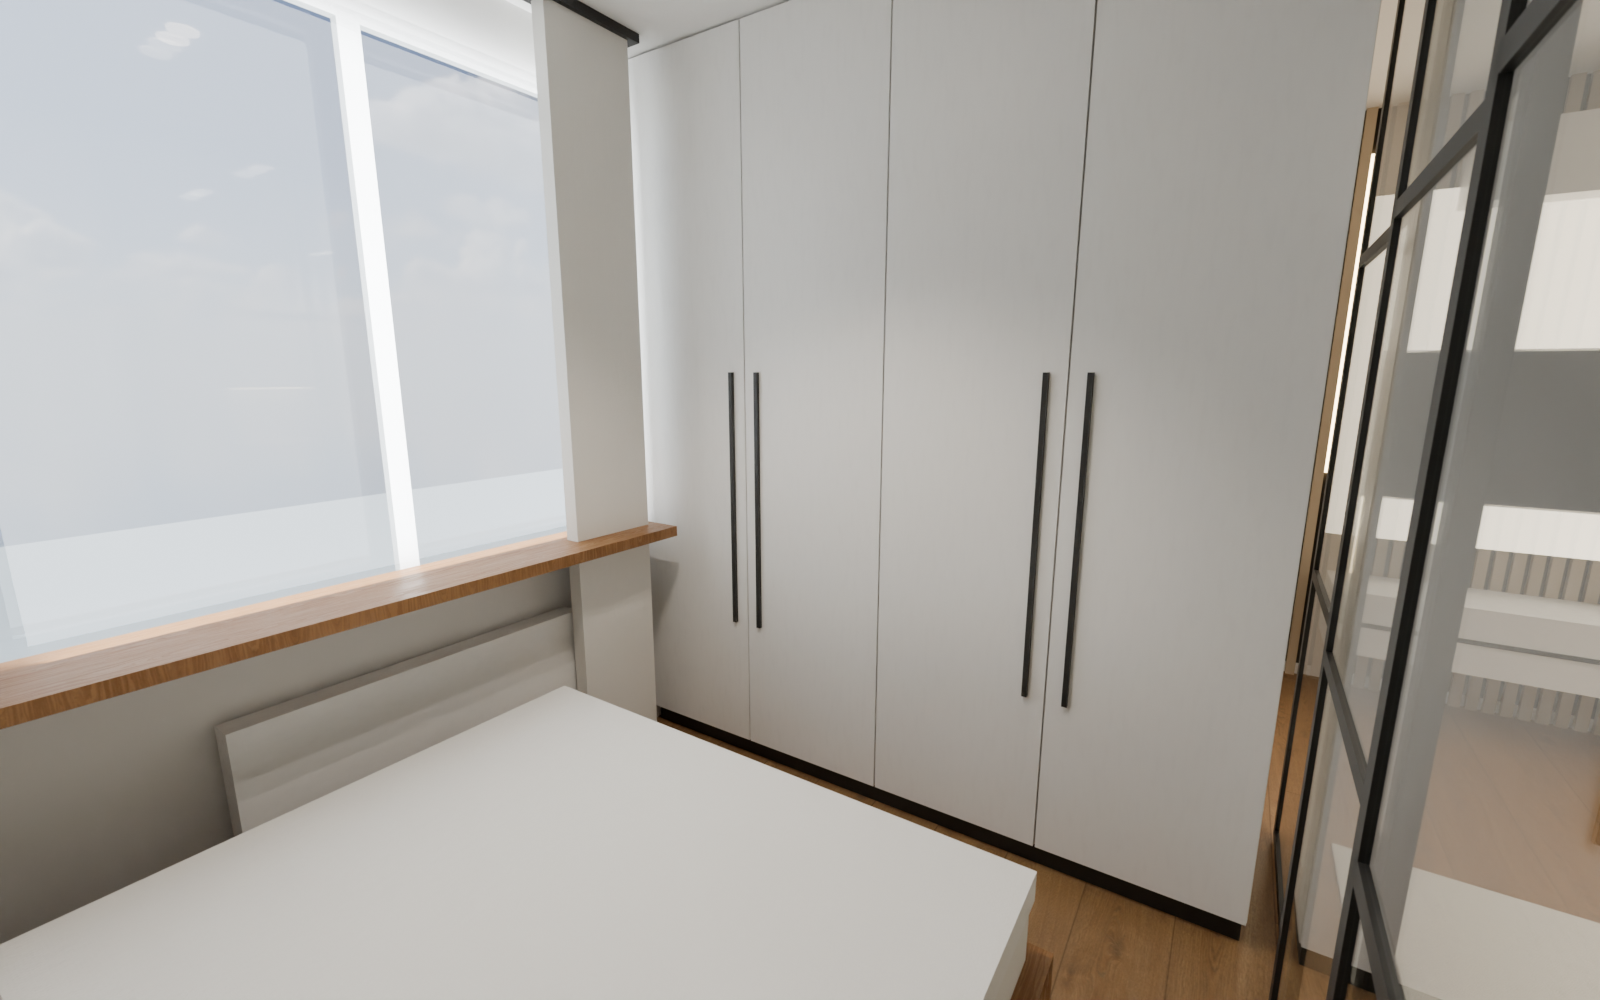
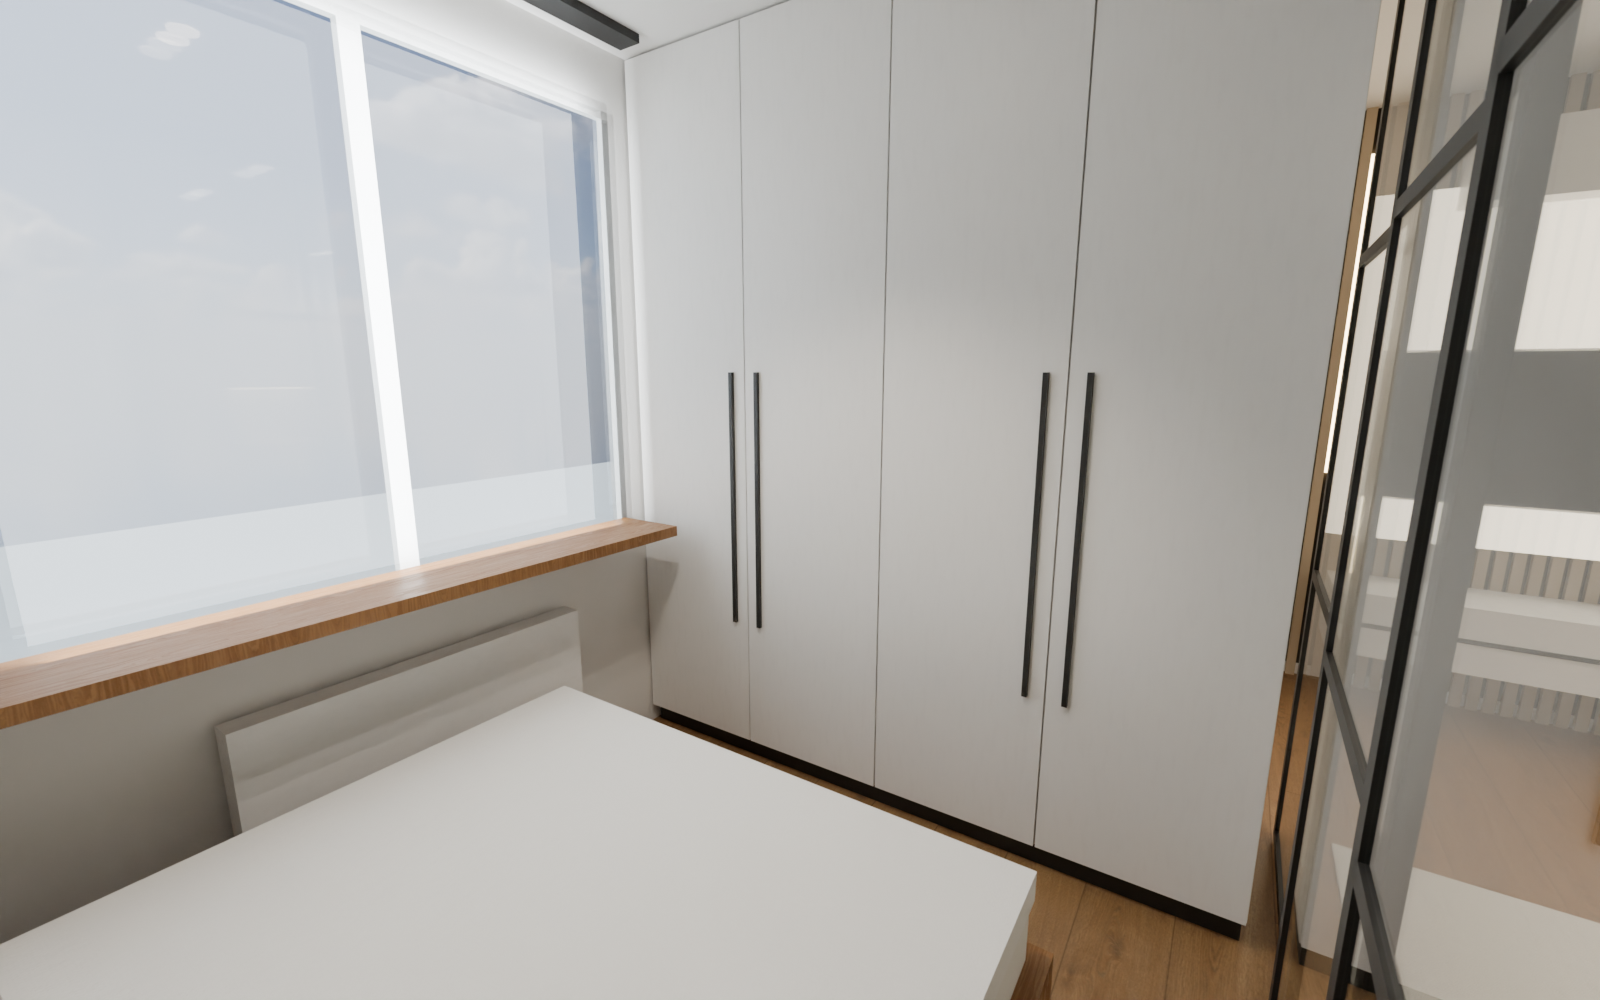
Спальня: убрана левая штора у окна

Changed region(s): [[0.3125, 0.0, 0.4375, 0.682], [0.4062, 0.682, 0.4375, 0.713]]

diff --git a/index.html b/index.html
@@ -288,7 +288,7 @@ B(4.78,4.9,0.3,1.15,6.3,8.0,mat.textile); B(4.5,4.9,0,0.5,5.97,6.33,mat.wood); /
 B(3.1,4.2,0.5,0.56,6.45,7.85,mat.textile);
 B(1.68,2.28,0,3.0,5.95,8.28,mat.white); [6.53,7.11,7.69].forEach(z=>B(2.28,2.285,0.03,2.97,z-0.004,z+0.004,mat.stone)); [6.47,6.59,7.63,7.75].forEach(z=>B(2.285,2.3,0.6,1.6,z-0.008,z+0.008,mat.dark)); // шкаф 2,33 м на всю левую стену, 4 двери с длинными ручками B(2.38,4.9,0.95,0.99,7.98,8.28,mat.wood);
 Cyl(4.85,6.15,0.07,1.25,1.4,mat.dark); Cyl(4.85,8.1,0.07,1.25,1.4,mat.dark);
-B(2.42,2.77,0,2.85,8.1,8.16,mat.linen); B(4.45,4.8,0,2.85,8.1,8.16,mat.linen);
+B(4.45,4.8,0,2.85,8.1,8.16,mat.linen);
 B(0.02,0.47,0.72,0.75,6.6,7.8,mat.wood); B(0.04,0.08,0,0.72,6.62,7.78,mat.dark); B(0.43,0.47,0,0.72,6.62,6.66,mat.dark); B(0.43,0.47,0,0.72,7.74,7.78,mat.dark); B(0.02,0.27,1.3,1.33,6.6,7.8,mat.wood); B(0.02,0.27,1.75,1.78,6.6,7.8,mat.wood); B(0.52,0.92,0.44,0.48,7.0,7.4,mat.textile); B(0.88,0.92,0.48,0.85,7.0,7.4,mat.dark); B(0.54,0.90,0,0.44,7.02,7.38,mat.dark);
 P=scene;
 // radiator under window (installed by developer)
